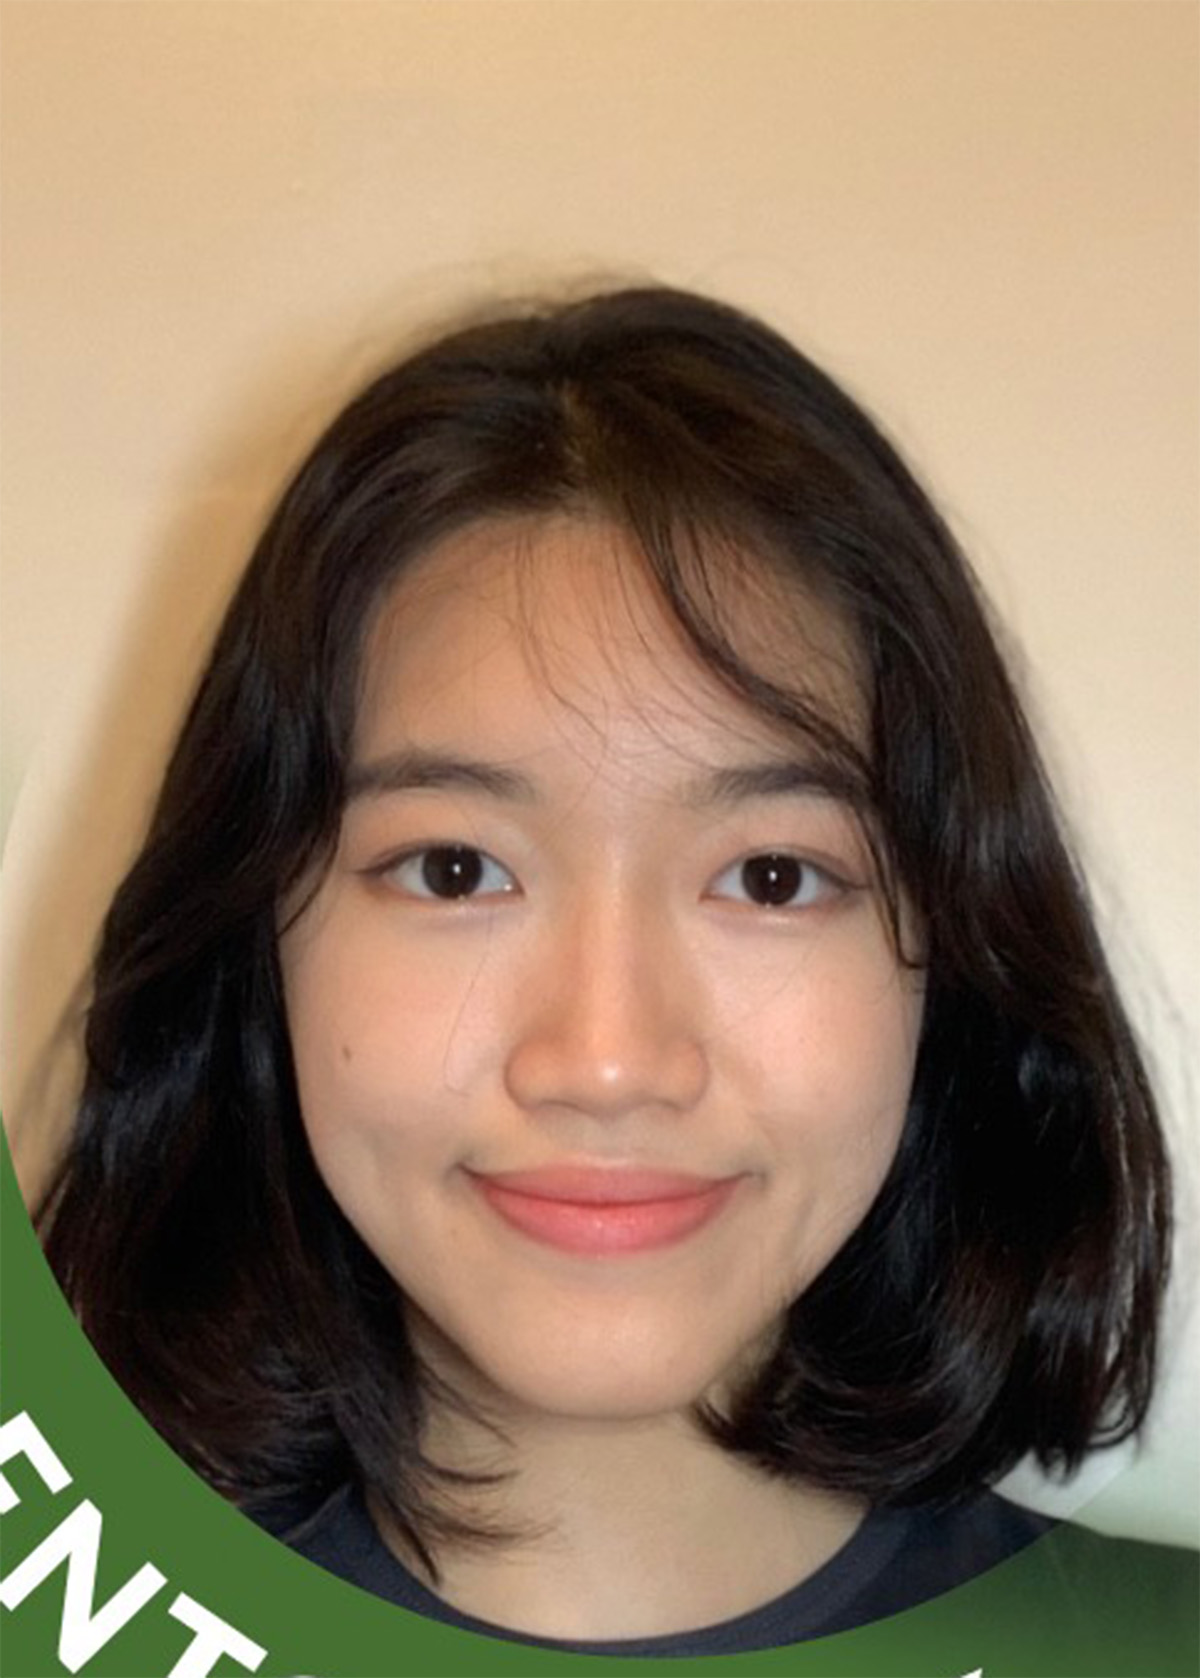
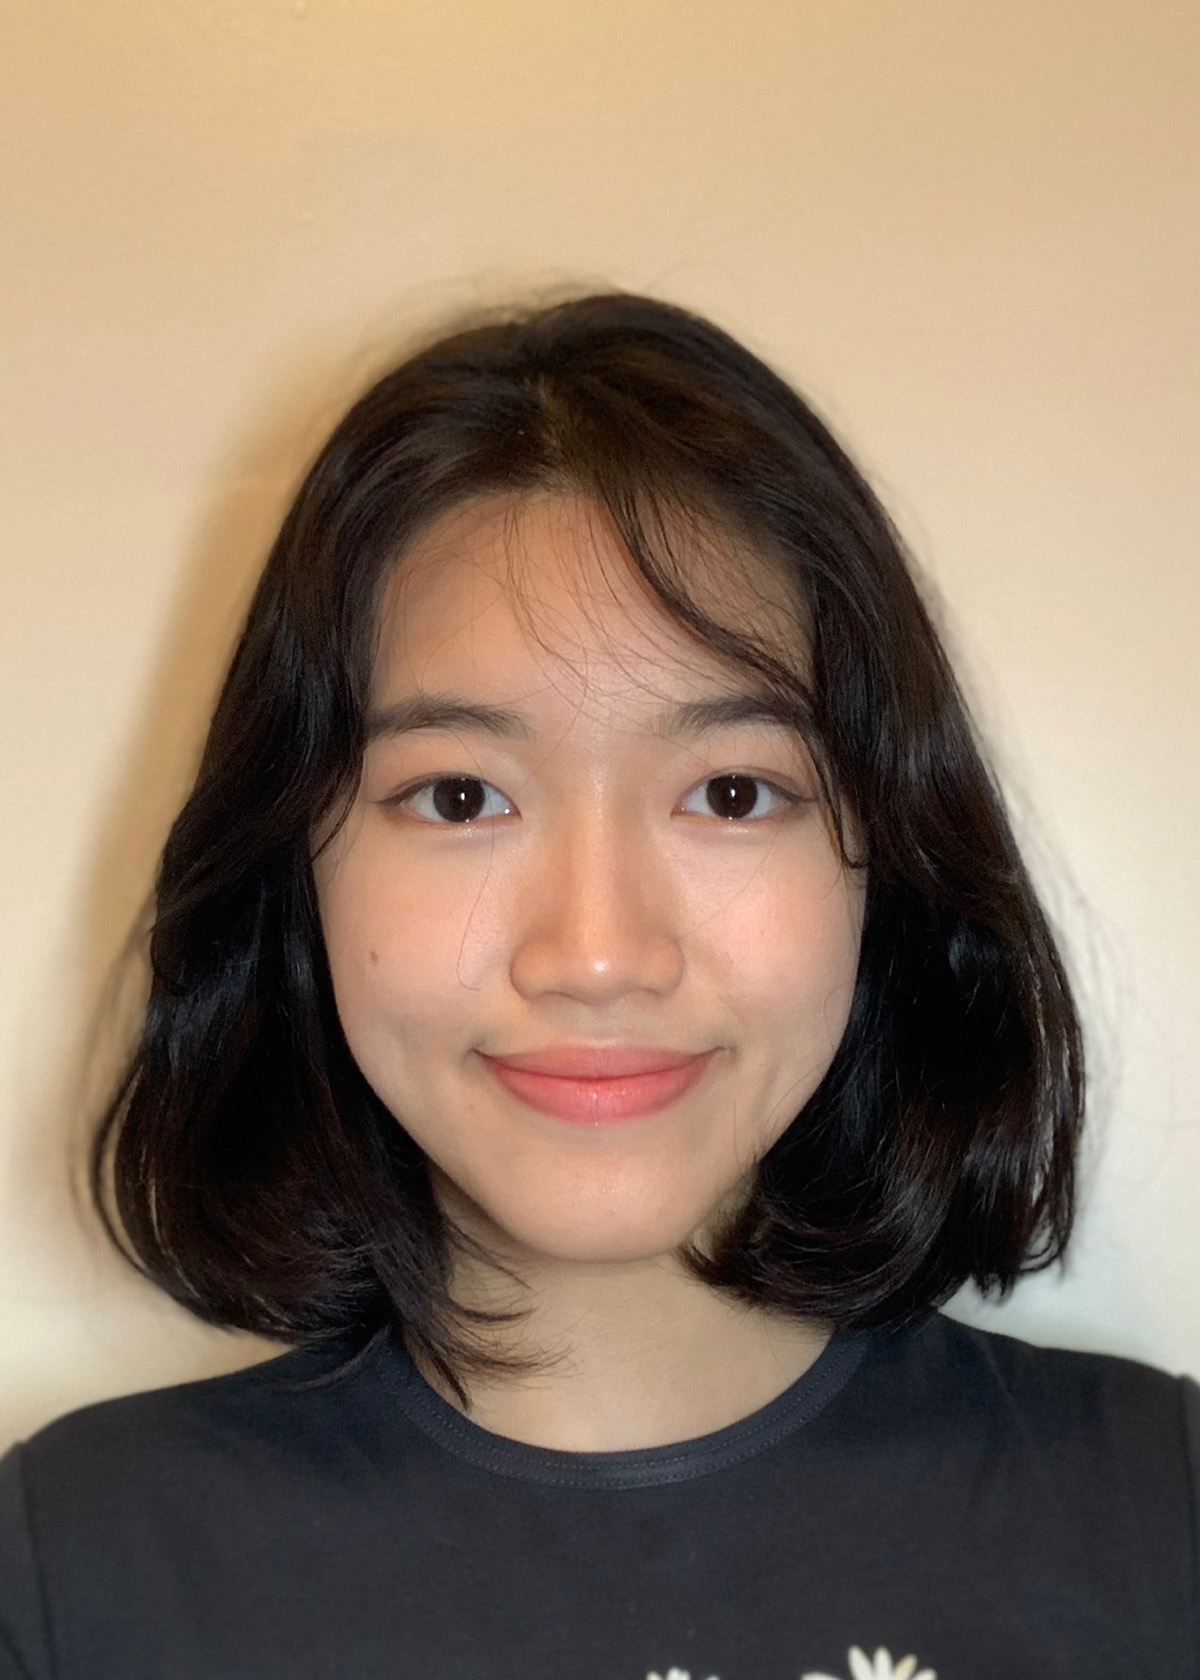
Updated team page and outcomes

diff --git a/src/pages/Team.jsx b/src/pages/Team.jsx
@@ -1,22 +1,7 @@
 import React from "react"
 import NavBar from "../components/NavBar"
 import "../assets/css/team.css"
-import wang_yunsheng from "../assets/images/profiles/wang_yunsheng.jpg"
-import peabody_jack from "../assets/images/profiles/peabody_jack.jpg"
-import khai_pau from "../assets/images/profiles/khai_pau.jpg"
-import estrada_joshua from "../assets/images/profiles/estrada_joshua.jpg"
-import chung_justin from "../assets/images/profiles/chung_justin.jpg"
-import hu_huijun from "../assets/images/profiles/hu_huijun.jpg"
-import sanna_alex from "../assets/images/profiles/sanna_alex.jpg"
-import ly_michael from "../assets/images/profiles/michael.jpg"
-import sheth_darshil from "../assets/images/profiles/sheth_darshil.jpg"
-import hoang_nicholas from "../assets/images/profiles/hoang_nicholas.jpg"
-import cursaro_sebastian from "../assets/images/profiles/cursaro_sebastian.jpg"
-import viswhakarama_abhishek from "../assets/images/profiles/vishwakarma_abhishek.jpg"
-import trinh_phong from "../assets/images/profiles/trinh_phong.png"
-import hollingsworth_ket from "../assets/images/profiles/hollingsworth_ket.jpg"
-import wang_nathan from "../assets/images/profiles/wang_nathan.jpg"
-import no_avatar from "../assets/images/no_avatar.jpg"
+import * as profileImages from "../assets/data/profiles";
 
 export default function Team() {
   return (
@@ -30,7 +15,7 @@ export default function Team() {
           FACULTY
         </div>
         <div className="profile_image" style={{ 
-          backgroundImage: `url(${wang_yunsheng})`,
+          backgroundImage: `url(${profileImages.wang_yunsheng})`,
           marginLeft: 'auto',
           marginRight: 'auto'
         }}>
@@ -63,11 +48,11 @@ export default function Team() {
               paddingRight: '30vw'
           }}>
             <div className='profile_image' style={{ 
-              backgroundImage: `url(${peabody_jack})`, 
+              backgroundImage: `url(${profileImages.peabody_jack})`, 
             }}> </div>
 
             <div className='profile_image' style={{ 
-              backgroundImage: `url(${khai_pau})`, 
+              backgroundImage: `url(${profileImages.khai_pau})`, 
             }}> </div>
 
           </div>
@@ -94,28 +79,31 @@ export default function Team() {
           <div className="subtitle">
             Undergraduate Students
             <div className="profile_container" style={{
-              paddingLeft: '20vw',
-              paddingRight: '20vw'
+              paddingLeft: '10vw',
+              paddingRight: '10vw'
             }}>
             <div className='profile_image' style={{ 
-                backgroundImage: `url(${estrada_joshua})`, 
+                backgroundImage: `url(${profileImages.estrada_joshua})`, 
               }}> </div>
 
               <div className='profile_image' style={{ 
-                backgroundImage: `url(${chung_justin})`, 
+                backgroundImage: `url(${profileImages.chung_justin})`, 
               }}> </div>
 
               <div className='profile_image' style={{ 
-                backgroundImage: `url(${hu_huijun})`, 
+                backgroundImage: `url(${profileImages.gafafyan_sarkis})`, 
+              }}> </div>
+
+              <div className='profile_image' style={{ 
+                backgroundImage: `url(${profileImages.hu_huijun})`, 
               }}> </div>
 
             </div>
 
             <div className="profile_container"style={{
               paddingTop: '10px',
-              paddingLeft: '25.25vw',
-              paddingRight: '27.25vw',
-              paddingBottom: '3vh'
+              paddingLeft: '15.25vw',
+              paddingRight: '17.15vw',
             }}>
               <a href="https://www.linkedin.com/in/joshua-estrada22/" className="information"> 
                 <strong>Joshua Estrada</strong> 
@@ -123,9 +111,16 @@ export default function Team() {
 
               <a href="https://www.linkedin.com/in/justchung/" className="information" style={{
                 margin: 'auto',
-                paddingRight: '1.75vw'
+                paddingLeft: '5.75vw'
               }}> 
                 <strong>Justin Chung</strong> 
+              </a>
+
+              <a href="https://www.linkedin.com/in/sarkisgafafyan/" className="information" style={{
+                margin: 'auto',
+                paddingRight: '7vw'
+              }}> 
+                <strong>Sarkis Gafafyan</strong> 
               </a>
 
               <a href="https://www.linkedin.com/in/huijun-hu-28045716a/" className="information"> 
@@ -133,6 +128,21 @@ export default function Team() {
               </a>
 
             </div>
+
+            <div className="profile_container"style={{
+              paddingLeft: '10vw',
+              paddingRight: '9.25vw',
+              paddingBottom: '3vh'
+            }}>
+            <div className="information">Control</div>
+
+            <div className="information">Perception</div>
+
+            <div className="information">Control</div>
+
+            <div className="information">Perception</div>
+
+          </div>
           </div>
         </div>
       </div>
@@ -158,11 +168,11 @@ export default function Team() {
               paddingRight: '30vw'
           }}>
             <div className='profile_image' style={{ 
-              backgroundImage: `url(${sanna_alex})`, 
+              backgroundImage: `url(${profileImages.sanna_alex})`, 
             }}> </div>
 
             <div className='profile_image' style={{ 
-              backgroundImage: `url(${ly_michael})`, 
+              backgroundImage: `url(${profileImages.ly_michael})`, 
             }}> </div>
 
           </div>
@@ -194,15 +204,15 @@ export default function Team() {
             paddingRight: '20vw'
           }}>
           <div className='profile_image' style={{ 
-              backgroundImage: `url(${sheth_darshil})`, 
+              backgroundImage: `url(${profileImages.sheth_darshil})`, 
             }}> </div>
 
             <div className='profile_image' style={{ 
-              backgroundImage: `url(${hoang_nicholas})`, 
+              backgroundImage: `url(${profileImages.hoang_nicholas})`, 
             }}> </div>
 
             <div className='profile_image' style={{ 
-              backgroundImage: `url(${cursaro_sebastian})`, 
+              backgroundImage: `url(${profileImages.cursaro_sebastian})`, 
             }}> </div>
 
           </div>
@@ -252,11 +262,11 @@ export default function Team() {
             paddingRight: '30vw'
           }}>
             <div className='profile_image' style={{ 
-              backgroundImage: `url(${viswhakarama_abhishek})`, 
+              backgroundImage: `url(${profileImages.viswhakarama_abhishek})`, 
             }}> </div>
 
             <div className='profile_image' style={{ 
-              backgroundImage: `url(${trinh_phong})`, 
+              backgroundImage: `url(${profileImages.trinh_phong})`, 
             }}> </div>
 
           </div>
@@ -270,6 +280,7 @@ export default function Team() {
             <a href="https://www.linkedin.com/in/phong-d-trinh/" className="information"> <strong>Phong Trinh</strong> </a>
 
           </div>
+          
           <div className="profile_container"style={{
             paddingLeft: '30.25vw',
             paddingRight: '30vw'
@@ -287,15 +298,15 @@ export default function Team() {
             paddingRight: '20vw'
           }}>
             <div className='profile_image' style={{ 
-              backgroundImage: `url(${no_avatar})`, 
+              backgroundImage: `url(${profileImages.no_avatar})`, 
             }}> </div>
   
             <div className='profile_image' style={{ 
-              backgroundImage: `url(${hollingsworth_ket})`, 
+              backgroundImage: `url(${profileImages.hollingsworth_ket})`, 
             }}> </div>
 
             <div className='profile_image' style={{ 
-              backgroundImage: `url(${wang_nathan})`, 
+              backgroundImage: `url(${profileImages.wang_nathan})`, 
             }}> </div>  
             
           </div>

diff --git a/src/assets/data/profiles.js b/src/assets/data/profiles.js
@@ -1,0 +1,37 @@
+import wang_yunsheng from "../images/profiles/wang_yunsheng.jpg"
+import peabody_jack from "../images/profiles/peabody_jack.jpg"
+import khai_pau from "../images/profiles/khai_pau.jpg"
+import estrada_joshua from "../images/profiles/estrada_joshua.jpg"
+import chung_justin from "../images/profiles/chung_justin.jpg"
+import hu_huijun from "../images/profiles/hu_huijun.jpg"
+import sanna_alex from "../images/profiles/sanna_alex.jpg"
+import ly_michael from "../images/profiles/michael.jpg"
+import sheth_darshil from "../images/profiles/sheth_darshil.jpg"
+import hoang_nicholas from "../images/profiles/hoang_nicholas.jpg"
+import cursaro_sebastian from "../images/profiles/cursaro_sebastian.jpg"
+import viswhakarama_abhishek from "../images/profiles/vishwakarma_abhishek.jpg"
+import trinh_phong from "../images/profiles/trinh_phong.png"
+import hollingsworth_ket from "../images/profiles/hollingsworth_ket.jpg"
+import wang_nathan from "../images/profiles/wang_nathan.jpg"
+import gafafyan_sarkis from "../images/profiles/gafafyan_sarkis.jpg"
+import no_avatar from "../images/no_avatar.jpg"
+
+export {
+    wang_yunsheng,
+    peabody_jack,
+    khai_pau,
+    estrada_joshua,
+    chung_justin,
+    hu_huijun,
+    sanna_alex,
+    ly_michael,
+    sheth_darshil,
+    hoang_nicholas,
+    cursaro_sebastian,
+    viswhakarama_abhishek,
+    trinh_phong,
+    hollingsworth_ket,
+    wang_nathan,
+    gafafyan_sarkis,
+    no_avatar
+};

diff --git a/src/assets/data/outcomes.js b/src/assets/data/outcomes.js
@@ -1,20 +1,17 @@
 import donkey_car_lane_detection from "../images/donkey_car_lane_detection.jpg"
 import object_detection from "../images/object_detection.jpg"
 import lane_detection from "../images/lane_detection.jpg"
+import agile_car from "../images/agile_car.jpg"
 
 export const outcomesFile = [
   { 
     teamName: "AGILE CAR OUTCOMES", outcomes: [
       {
-        img: object_detection, 
-        title: "title", 
-        text: "text"
-      },
-
-      {
-        img: object_detection, 
-        title:"title", 
-        text: "text"
+        img: agile_car, 
+        title: "Optical Navigation", 
+        text: "Developed optical navigation capabilities, where the robot navigates by identifying and reading text off\
+        of signs. Integrated additional sensors and compute on the Scout Mini platform. Software stack developed using\
+        image processing, optical character recognition, and visual servoing techniques."
       }
     ]
   },

diff --git a/src/pages/Home.jsx b/src/pages/Home.jsx
@@ -97,7 +97,7 @@ export default function home() {
           research, pursuing a thesis, or collaborating on innovative projects, the AIoT Lab provides a stimulating environment to explore and develop your ideas. <br />
           
           <br /> <strong>Contact Us</strong> <br />
-          For more information about the AIoT Lab, our research, and opportunities to collaborate, please contact Dr. Yunsheng Wang at yunshengwang@cpp.edu. <br />
+          For more information about the AIoT Lab, our research, and opportunities to collaborate, please contact Dr. Yunsheng Wang at <u>yunshengwang@cpp.edu</u>. <br />
         </div>
         <div className='dot_menu hidden'>
           &hellip;
